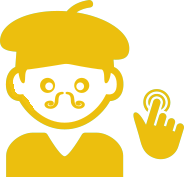
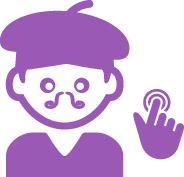
fixing color in museums pages

diff --git a/templates/museums/museums_list.html b/templates/museums/museums_list.html
@@ -4,7 +4,7 @@
 {% load endless %}
 
 {% block color_line %}
-    <div class="green-bar" style="background-color: #F1C40F;">
+    <div class="green-bar" style="background-color: #9B59B6;">
       <h2>Музеи Выборга&nbsp;и&nbsp;окрестностей</h2>
     </div>
 {% endblock %}
@@ -32,11 +32,11 @@
     <!-- Nav tabs -->
     <ul class="nav nav-tabs" role="tablist">
       <li role="presentation" class="active">
-        <a href="#home" aria-controls="home" role="tab" data-toggle="tab" class="btn btn-default btn-fab btn-raised btn-ico-photo"></a>
+        <a href="#home" aria-controls="home" role="tab" data-toggle="tab" class="btn btn-default btn-fab btn-raised btn-ico-photo" style="background-color: #9B59B6 !important;"></a>
         <div>Тип</div>
       </li>
       <li role="presentation">
-        <a href="#profile" aria-controls="profile" role="tab" data-toggle="tab" class="btn btn-default btn-fab btn-raised btn-ico-ruller"></a>
+        <a href="#profile" aria-controls="profile" role="tab" data-toggle="tab" class="btn btn-default btn-fab btn-raised btn-ico-ruller" style="background-color: #9B59B6 !important;"></a>
         <div>Удаленность</div>
       </li>
     </ul>
@@ -47,17 +47,17 @@
         <div class="row">
           <div class="col-sm-4 col-xs-12">
             {% for pt in p_types %}{% if forloop.counter < 3 %}
-            <div class="text-center"><a href="?pt={{ pt.pk }}{% if pt_active.slug == pt.slug %}-{% endif %}" class="btn-filter {% if pt_active.slug == pt.slug %}active{% endif %}">{{ pt.title }}</a></div>
+            <div class="text-center"><a href="?pt={{ pt.pk }}{% if pt_active.slug == pt.slug %}-{% endif %}" class="btn-filter btn-m-filter {% if pt_active.slug == pt.slug %}active{% endif %}">{{ pt.title }}</a></div>
             {% endif %}{% endfor %}
           </div>
           <div class="col-sm-4 col-xs-12">
             {% for pt in p_types %}{% if forloop.counter >= 3 and forloop.counter < 5 %}
-            <div class="text-center"><a href="?pt={{ pt.pk }}{% if pt_active.slug == pt.slug %}-{% endif %}" class="btn-filter {% if pt_active.slug == pt.slug %}active{% endif %}">{{ pt.title }}</a></div>
+            <div class="text-center"><a href="?pt={{ pt.pk }}{% if pt_active.slug == pt.slug %}-{% endif %}" class="btn-filter btn-m-filter {% if pt_active.slug == pt.slug %}active{% endif %}">{{ pt.title }}</a></div>
             {% endif %}{% endfor %}
           </div>
           <div class="col-sm-4 col-xs-12">
             {% for pt in p_types %}{% if forloop.counter >= 5 and forloop.counter < 7 %}
-            <div class="text-center"><a href="?pt={{ pt.pk }}{% if pt_active.slug == pt.slug %}-{% endif %}" class="btn-filter {% if pt_active.slug == pt.slug %}active{% endif %}">{{ pt.title }}</a></div>
+            <div class="text-center"><a href="?pt={{ pt.pk }}{% if pt_active.slug == pt.slug %}-{% endif %}" class="btn-filte btn-m-filterr {% if pt_active.slug == pt.slug %}active{% endif %}">{{ pt.title }}</a></div>
             {% endif %}{% endfor %}
           </div>
         </div>
@@ -65,16 +65,16 @@
       <div role="tabpanel" class="tab-pane" id="profile">
         <div class="row">
           <div class="col-sm-4 col-xs-12">
-            <div class="text-center"><a href="?dist=1{% if dist == "1" %}-{% endif %}" class="btn-filter {% if dist == "1" %}active{% endif %}">Город</a></div>
-            <div class="text-center"><a href="?dist=2{% if dist == "2" %}-{% endif %}" class="btn-filter {% if dist == "2" %}active{% endif %}">&lt;10км.</a></div>
+            <div class="text-center"><a href="?dist=1{% if dist == "1" %}-{% endif %}" class="btn-filter btn-m-filter {% if dist == "1" %}active{% endif %}">Город</a></div>
+            <div class="text-center"><a href="?dist=2{% if dist == "2" %}-{% endif %}" class="btn-filter btn-m-filter {% if dist == "2" %}active{% endif %}">&lt;10км.</a></div>
           </div>
           <div class="col-sm-4 col-xs-12">
-            <div class="text-center"><a href="?dist=3{% if dist == "3" %}-{% endif %}" class="btn-filter {% if dist == "3" %}active{% endif %}">10-30км.</a></div>
-            <div class="text-center"><a href="?dist=4{% if dist == "4" %}-{% endif %}" class="btn-filter {% if dist == "4" %}active{% endif %}">30-50км.</a></div>
+            <div class="text-center"><a href="?dist=3{% if dist == "3" %}-{% endif %}" class="btn-filter btn-m-filter {% if dist == "3" %}active{% endif %}">10-30км.</a></div>
+            <div class="text-center"><a href="?dist=4{% if dist == "4" %}-{% endif %}" class="btn-filter btn-m-filter {% if dist == "4" %}active{% endif %}">30-50км.</a></div>
           </div>
           <div class="col-sm-4 col-xs-12">
-            <div class="text-center"><a href="?dist=5{% if dist == "5" %}-{% endif %}" class="btn-filter {% if dist == "5" %}active{% endif %}">50-100км.</a></div>
-            <div class="text-center"><a href="?dist=6{% if dist == "6" %}-{% endif %}" class="btn-filter {% if dist == "6" %}active{% endif %}">&gt;100км.</a></div>
+            <div class="text-center"><a href="?dist=5{% if dist == "5" %}-{% endif %}" class="btn-filter btn-m-filter {% if dist == "5" %}active{% endif %}">50-100км.</a></div>
+            <div class="text-center"><a href="?dist=6{% if dist == "6" %}-{% endif %}" class="btn-filter btn-m-filter {% if dist == "6" %}active{% endif %}">&gt;100км.</a></div>
           </div>
         </div>
       </div>
@@ -97,7 +97,7 @@
            {% if forloop.counter0 < 4 %}
             <div class="col-md-3 col-sm-6 col-xs-12">
               <a class="sights-row btn btn-raised" href="{{ obj.get_absolute_path }}">
-                <span class="label label-default label-place">{% if obj.distance > 1 %}{{ obj.distance }} км. от Выборга{% else %}Выборг{% endif %}</span>
+                <span class="label label-default label-m-place">{% if obj.distance > 1 %}{{ obj.distance }} км. от Выборга{% else %}Выборг{% endif %}</span>
 
                 <h3>{{ obj.title }}</h3>
 

diff --git a/templates/showplaces/place_list.html b/templates/showplaces/place_list.html
@@ -44,17 +44,17 @@
         <div class="row">
           <div class="col-sm-4 col-xs-12">
             {% for pt in p_types %}{% if forloop.counter < 3 %}
-            <div class="text-center"><a href="?pt={{ pt.pk }}{% if pt_active.slug == pt.slug %}-{% endif %}" class="btn-filter {% if pt_active.slug == pt.slug %}active{% endif %}">{{ pt.title }}</a></div>
+            <div class="text-center"><a href="?pt={{ pt.pk }}{% if pt_active.slug == pt.slug %}-{% endif %}" class="btn-filter btn-s-filter {% if pt_active.slug == pt.slug %}active{% endif %}">{{ pt.title }}</a></div>
             {% endif %}{% endfor %}
           </div>
           <div class="col-sm-4 col-xs-12">
             {% for pt in p_types %}{% if forloop.counter >= 3 and forloop.counter < 5 %}
-            <div class="text-center"><a href="?pt={{ pt.pk }}{% if pt_active.slug == pt.slug %}-{% endif %}" class="btn-filter {% if pt_active.slug == pt.slug %}active{% endif %}">{{ pt.title }}</a></div>
+            <div class="text-center"><a href="?pt={{ pt.pk }}{% if pt_active.slug == pt.slug %}-{% endif %}" class="btn-filter btn-s-filter {% if pt_active.slug == pt.slug %}active{% endif %}">{{ pt.title }}</a></div>
             {% endif %}{% endfor %}
           </div>
           <div class="col-sm-4 col-xs-12">
             {% for pt in p_types %}{% if forloop.counter >= 5 and forloop.counter < 7 %}
-            <div class="text-center"><a href="?pt={{ pt.pk }}{% if pt_active.slug == pt.slug %}-{% endif %}" class="btn-filter {% if pt_active.slug == pt.slug %}active{% endif %}">{{ pt.title }}</a></div>
+            <div class="text-center"><a href="?pt={{ pt.pk }}{% if pt_active.slug == pt.slug %}-{% endif %}" class="btn-filter btn-s-filter {% if pt_active.slug == pt.slug %}active{% endif %}">{{ pt.title }}</a></div>
             {% endif %}{% endfor %}
           </div>
         </div>
@@ -62,16 +62,16 @@
       <div role="tabpanel" class="tab-pane" id="profile">
         <div class="row">
           <div class="col-sm-4 col-xs-12">
-            <div class="text-center"><a href="?dist=1{% if dist == "1" %}-{% endif %}" class="btn-filter {% if dist == "1" %}active{% endif %}">Город</a></div>
-            <div class="text-center"><a href="?dist=2{% if dist == "2" %}-{% endif %}" class="btn-filter {% if dist == "2" %}active{% endif %}">&lt;10км.</a></div>
+            <div class="text-center"><a href="?dist=1{% if dist == "1" %}-{% endif %}" class="btn-filter btn-s-filter {% if dist == "1" %}active{% endif %}">Город</a></div>
+            <div class="text-center"><a href="?dist=2{% if dist == "2" %}-{% endif %}" class="btn-filter btn-s-filter {% if dist == "2" %}active{% endif %}">&lt;10км.</a></div>
           </div>
           <div class="col-sm-4 col-xs-12">
-            <div class="text-center"><a href="?dist=3{% if dist == "3" %}-{% endif %}" class="btn-filter {% if dist == "3" %}active{% endif %}">10-30км.</a></div>
-            <div class="text-center"><a href="?dist=4{% if dist == "4" %}-{% endif %}" class="btn-filter {% if dist == "4" %}active{% endif %}">30-50км.</a></div>
+            <div class="text-center"><a href="?dist=3{% if dist == "3" %}-{% endif %}" class="btn-filter btn-s-filter {% if dist == "3" %}active{% endif %}">10-30км.</a></div>
+            <div class="text-center"><a href="?dist=4{% if dist == "4" %}-{% endif %}" class="btn-filter btn-s-filter {% if dist == "4" %}active{% endif %}">30-50км.</a></div>
           </div>
           <div class="col-sm-4 col-xs-12">
-            <div class="text-center"><a href="?dist=5{% if dist == "5" %}-{% endif %}" class="btn-filter {% if dist == "5" %}active{% endif %}">50-100км.</a></div>
-            <div class="text-center"><a href="?dist=6{% if dist == "6" %}-{% endif %}" class="btn-filter {% if dist == "6" %}active{% endif %}">&gt;100км.</a></div>
+            <div class="text-center"><a href="?dist=5{% if dist == "5" %}-{% endif %}" class="btn-filter btn-s-filter {% if dist == "5" %}active{% endif %}">50-100км.</a></div>
+            <div class="text-center"><a href="?dist=6{% if dist == "6" %}-{% endif %}" class="btn-filter btn-s-filter {% if dist == "6" %}active{% endif %}">&gt;100км.</a></div>
           </div>
         </div>
       </div>

diff --git a/static/css/style.css b/static/css/style.css
@@ -325,7 +325,7 @@ body {
 /* MAIN */
 
 .bg-night-blue { background-color: #34495E; }
-.bg-museum { background-color: #8D44AC; }
+.bg-museum { background-color: #F1C40F; }
 .block-sights-n-filters { padding: 20px 0 0; }
 .block-sights-n-filters.padding-bottom { padding-bottom: 200px; }
 /* .block-sights-filters { margin-top: -65px; padding-bottom: 40px; } */
@@ -406,12 +406,19 @@ body {
   transform: scale(1);
   -webkit-transform: scale(1);
 }
-.block-sights-filters .btn-filter:hover {
+.block-sights-filters .btn-s-filter:hover {
   /* opacity: 0.9; */
-  background: rgba(46,204,113,0.4);
+    background: rgba(46,204,113,0.4);
 }
-.block-sights-filters .btn-filter.active {
-  background: #2ecc71;
+.block-sights-filters .btn-s-filter.active {
+    background: #2ecc71;
+}
+.block-sights-filters .btn-m-filter:hover {
+     /* opacity: 0.9; */
+    background: rgba(155,89,182,0.4);
+ }
+.block-sights-filters .btn-m-filter.active {
+    background: #9B59B6;
 }
 .block-sights-filters .btn-filter.changed {
   -webkit-animation: 0.3s ease 0s normal none 1 filter-nonactive-changed;
@@ -467,6 +474,14 @@ body {
   border-radius: 10px;
   padding: 0 30px;
   color: #fff;
+  font-size: 13px;
+  font-weight: normal;
+}
+.block-sights-rows .sights-row .label-m-place {
+  background: #fff;
+  border-radius: 10px;
+  padding: 0 30px;
+  color: #9B59B6;
   font-size: 13px;
   font-weight: normal;
 }

diff --git a/templates/museums/museum_detail.html b/templates/museums/museum_detail.html
@@ -25,7 +25,7 @@
 
             <div class="col-md-12 col-sm-12 col-xs-12">
               <a class="sights-row btn btn-raised" href="{{ object.get_absolute_path }}">
-                <span class="label label-default label-place">{% if object.distance > 1 %}{{ object.distance }} км. от Выборга{% else %}Выборг{% endif %}</span>
+                <span class="label label-default label-m-place">{% if object.distance > 1 %}{{ object.distance }} км. от Выборга{% else %}Выборг{% endif %}</span>
 
 
                 <div class="img text-center margin-top-15">

diff --git a/templates/museums/museums_page.html b/templates/museums/museums_page.html
@@ -8,7 +8,7 @@
      {% if forloop.counter0 >= 4 %}
       <div class="col-md-3 col-sm-6 col-xs-12">
         <a class="sights-row btn btn-raised" href="{{ obj.get_absolute_path }}">
-          <span class="label label-default label-place">{% if obj.distance > 1 %}{{ obj.distance }} км. от Выборга{% else %}Выборг{% endif %}</span>
+          <span class="label label-default label-m-place">{% if obj.distance > 1 %}{{ obj.distance }} км. от Выборга{% else %}Выборг{% endif %}</span>
 
           <h3>{{ obj.title }}</h3>
 
